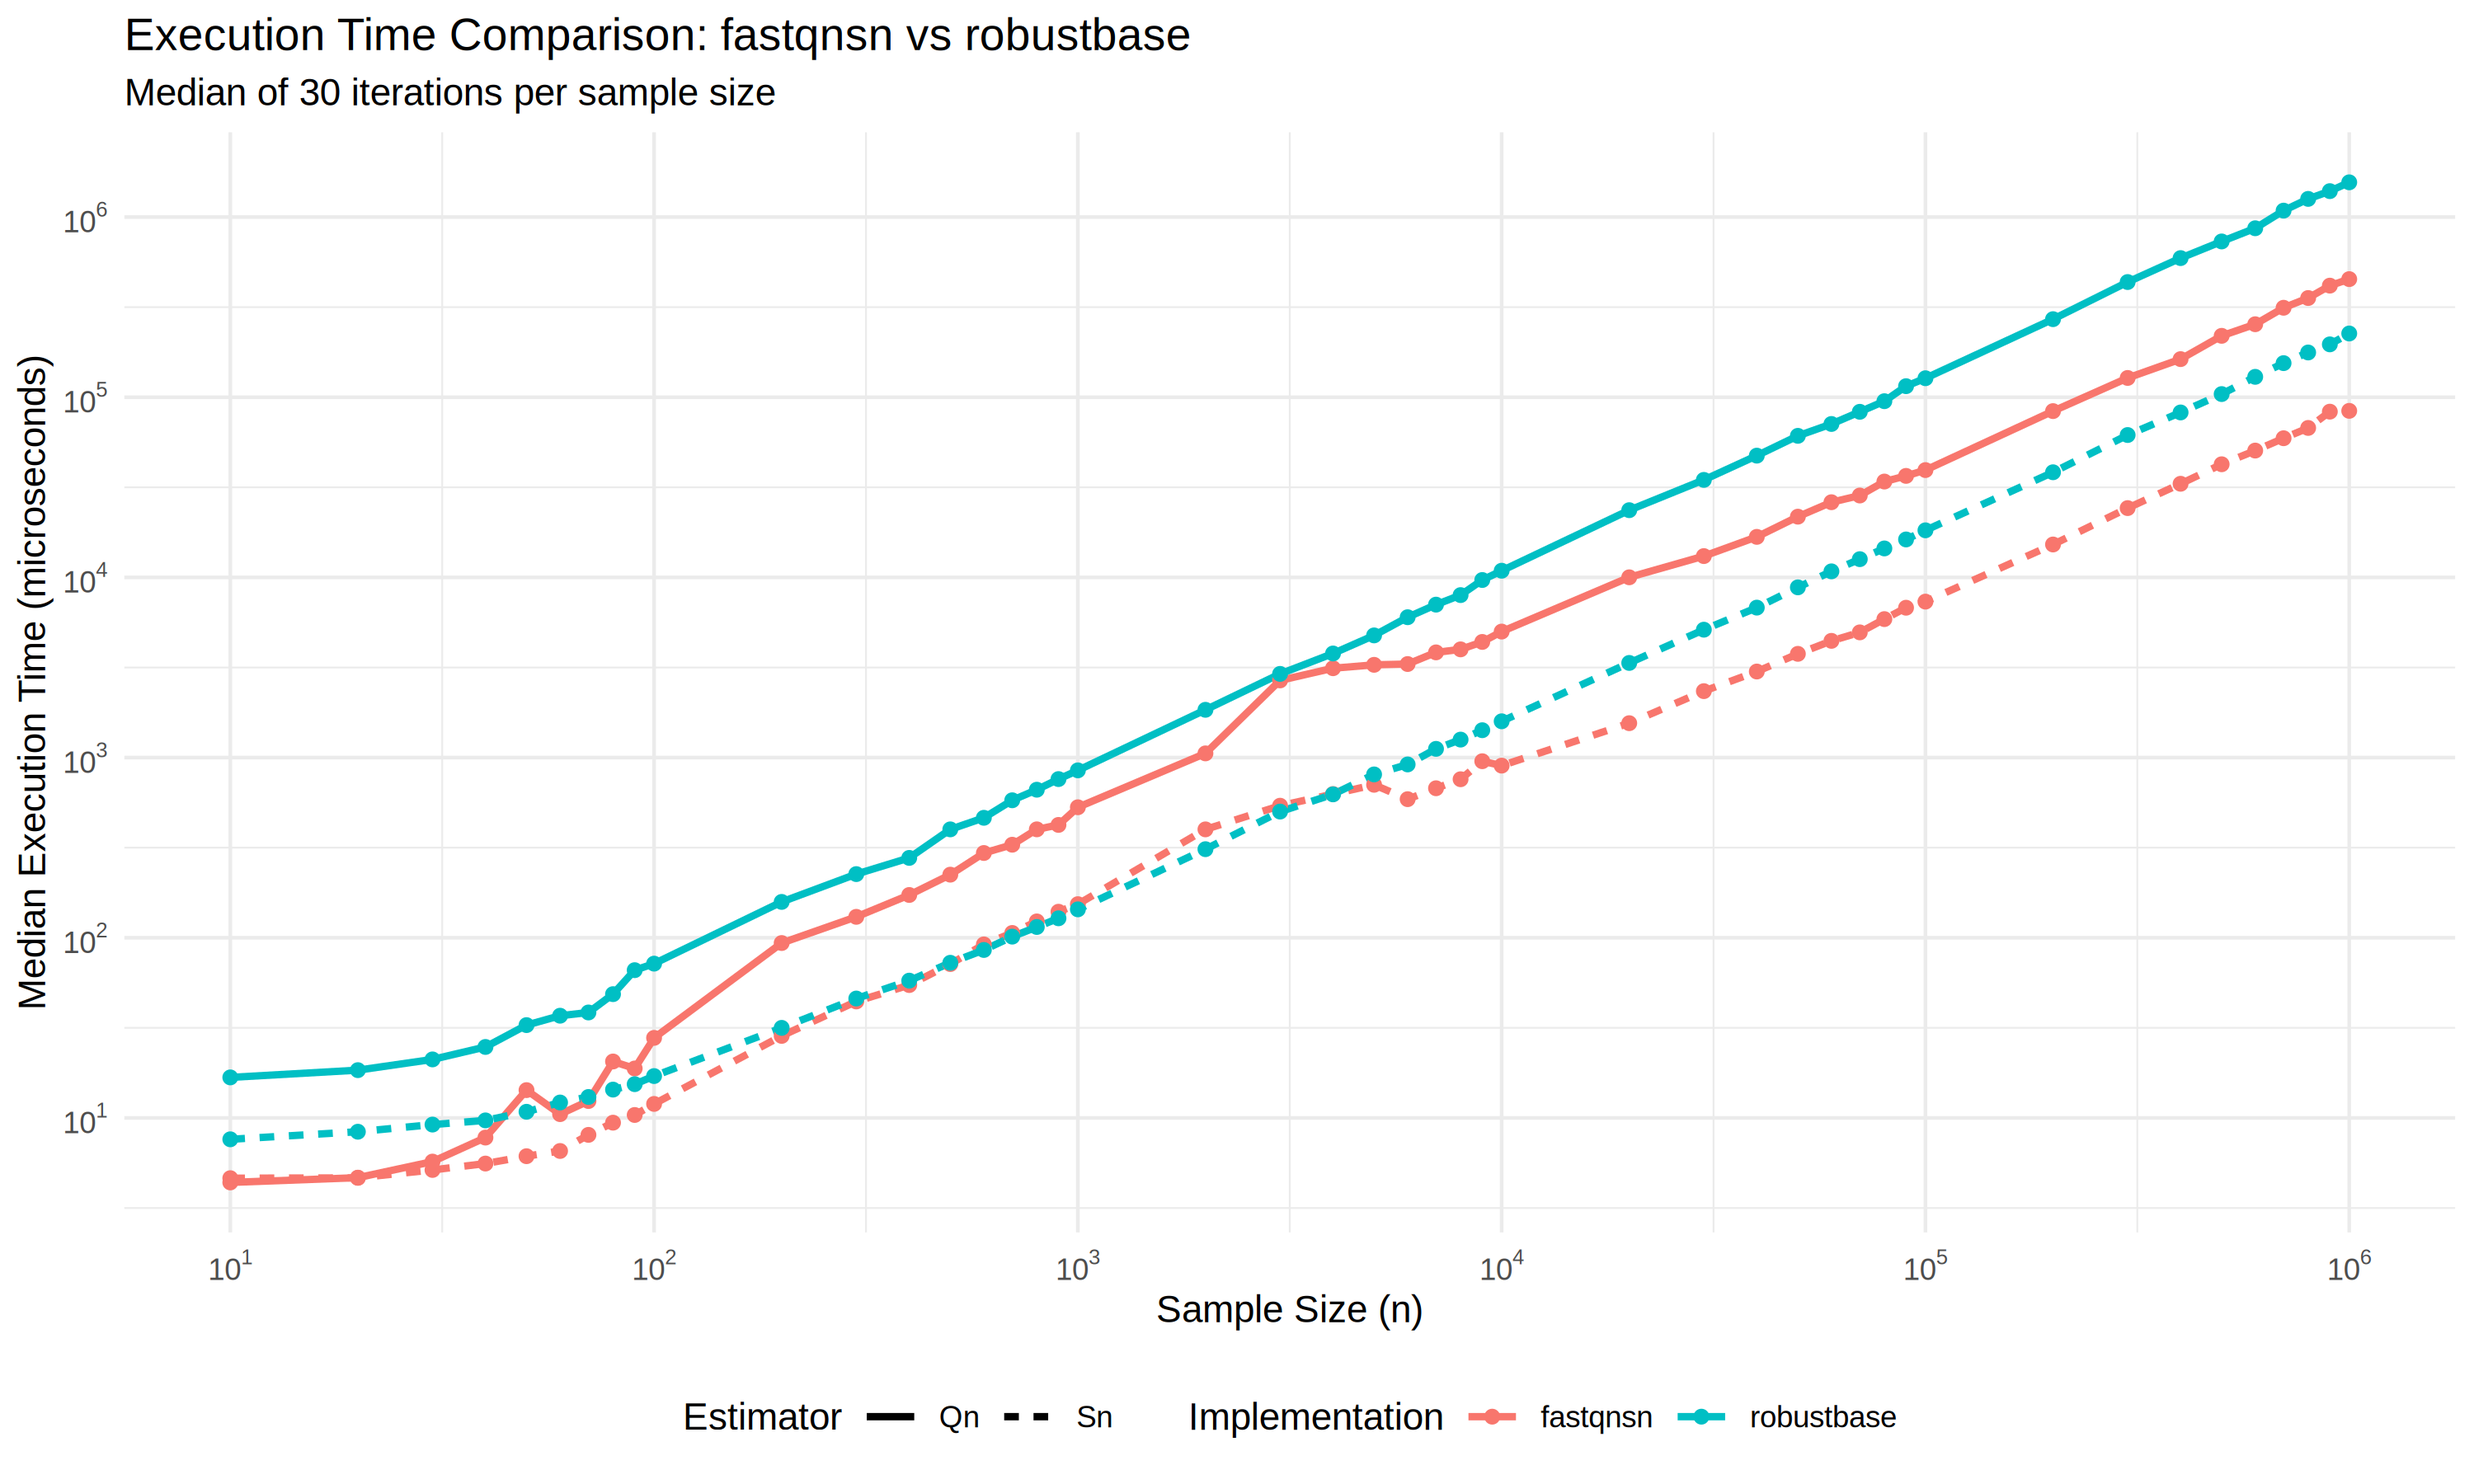
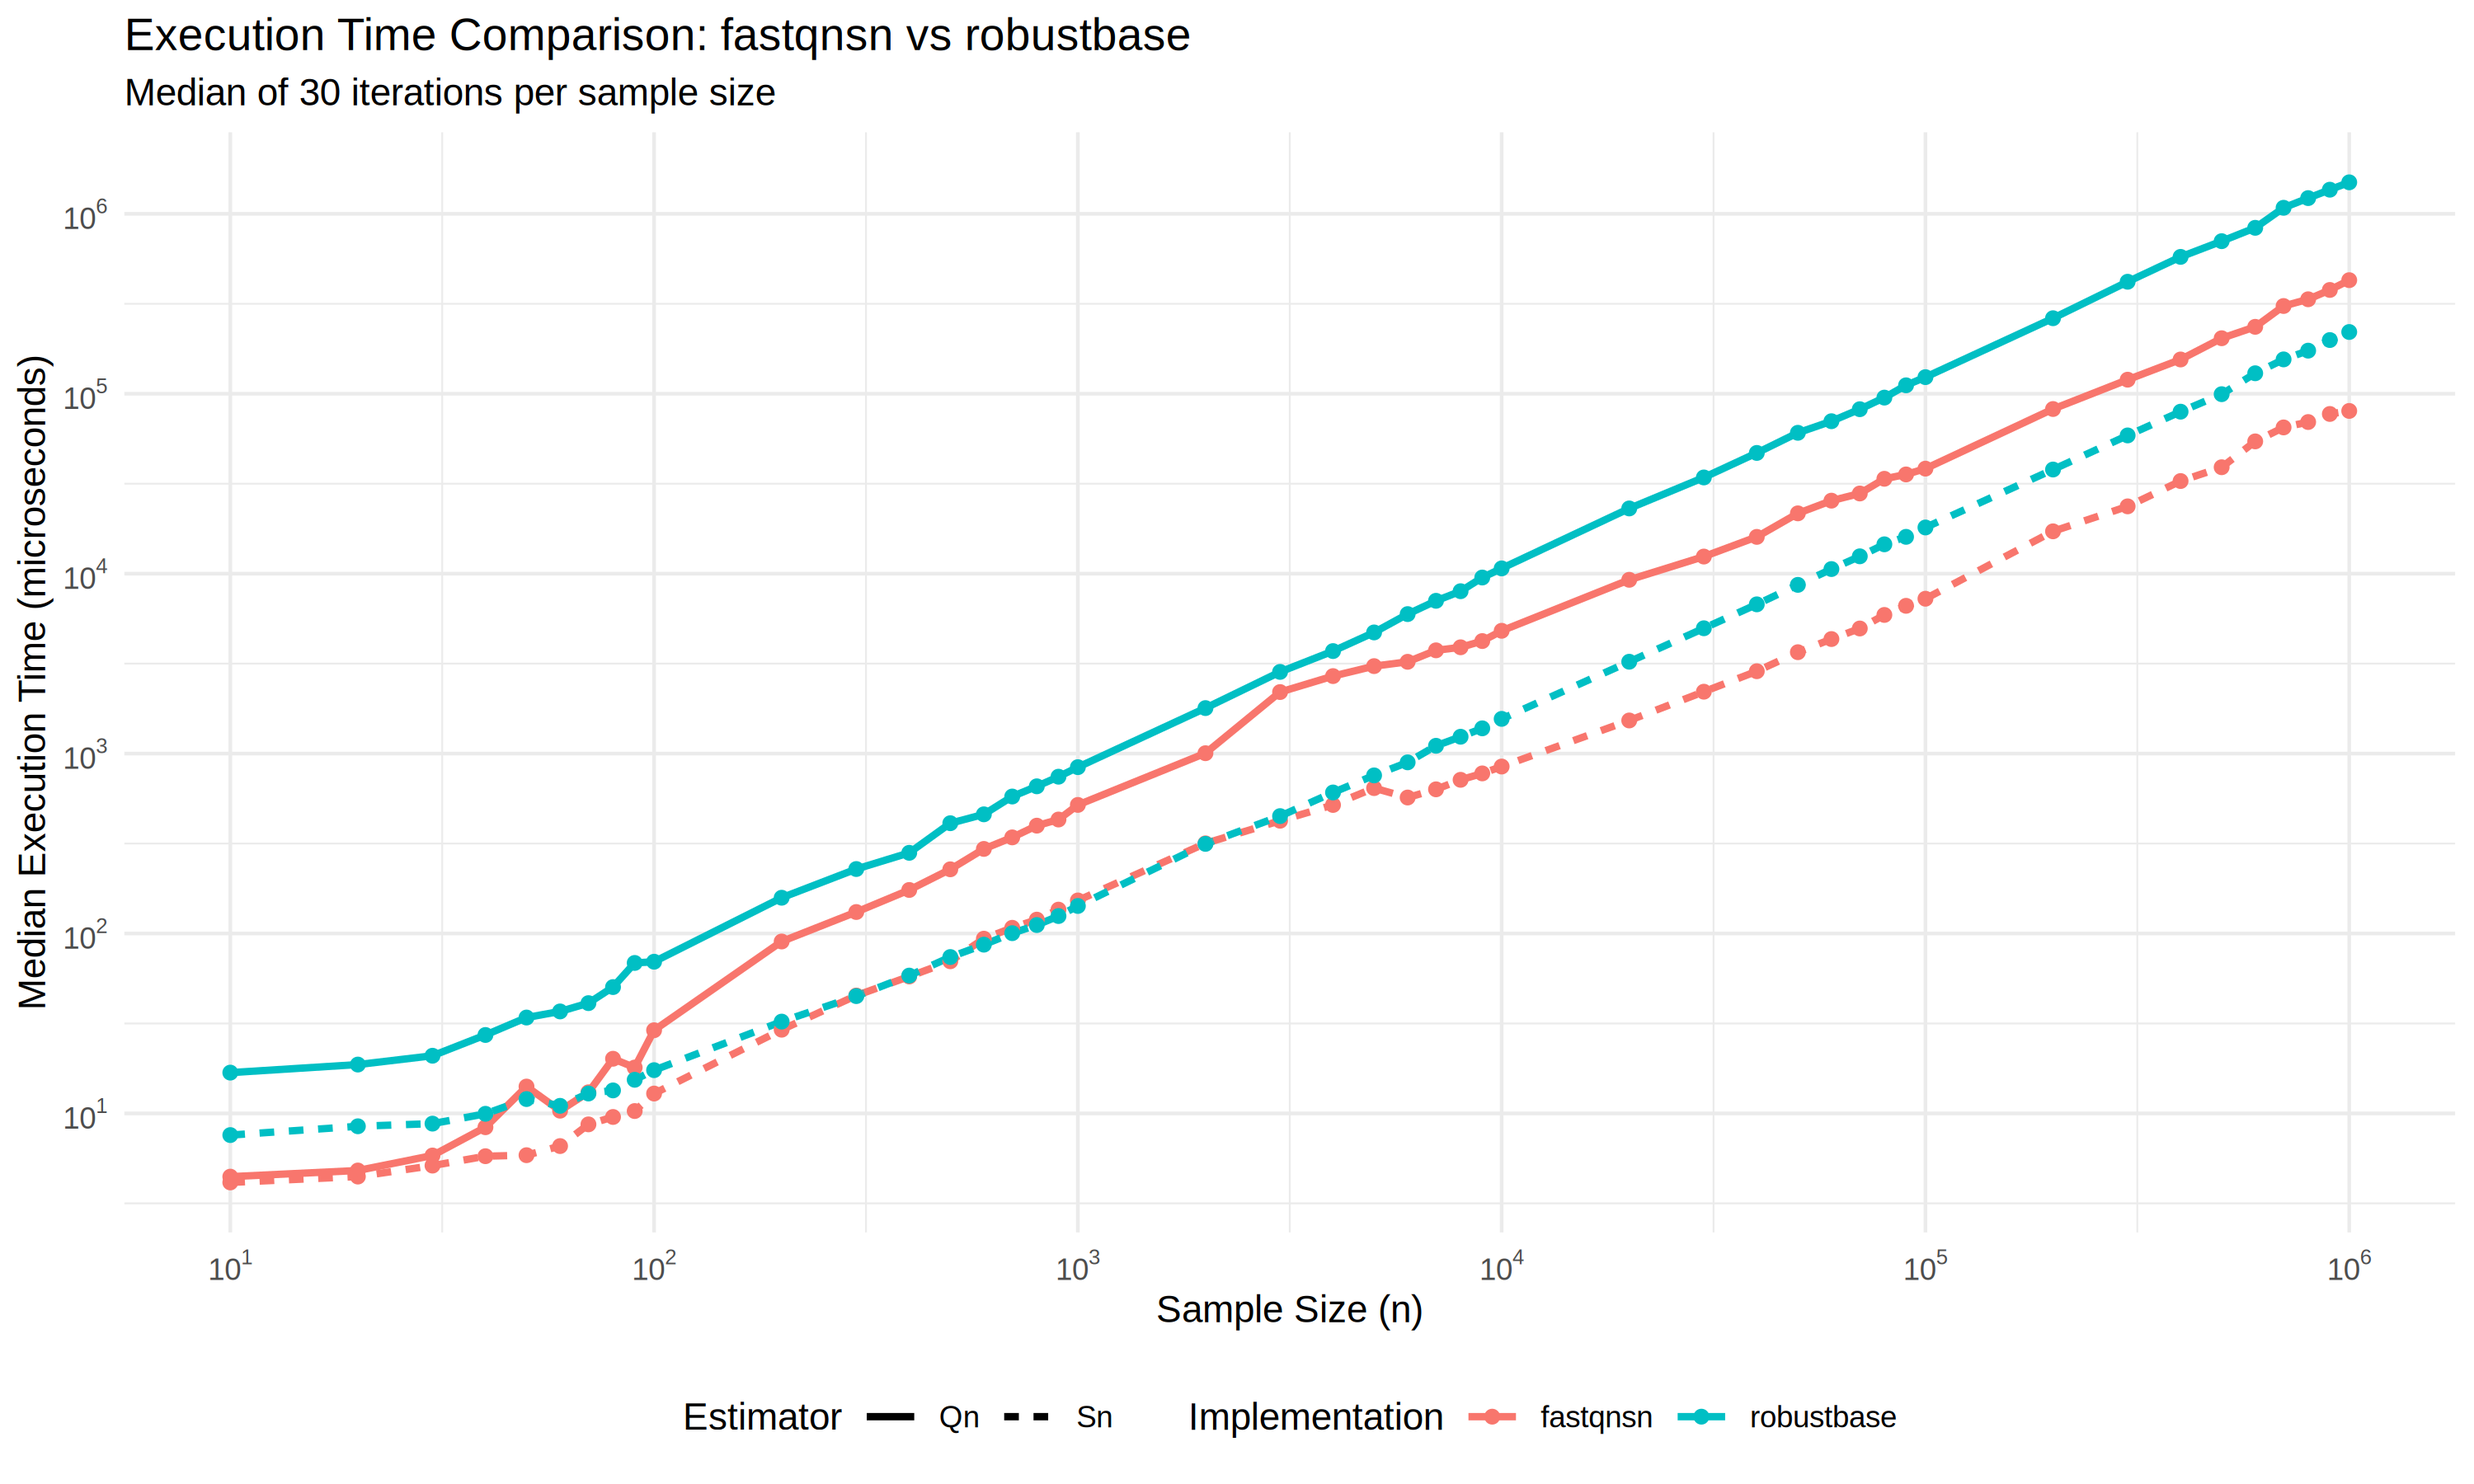
Refine thread allocation and optimize estimators performance
- Conducted a thread scaling study for Qn and Sn estimators across different dataset sizes.
- Refined serial/parallel thresholds (Sn: n > 1500, Qn: n > 3000) based on scaling results to avoid threading overhead.
- Evaluated sub-function performance, including parallel sort and JM selection.
- Updated README with detailed scaling evaluation and final benchmark results.
- Verified bit-identical correctness and passed all tests.

diff --git a/src/estimators.cpp b/src/estimators.cpp
@@ -112,7 +112,8 @@ double C_sn_fast(NumericVector x) {
   std::vector<double> inner_medians(n);
   SnWorker worker(sorted_x.data(), n, inner_medians.data());
 
-  if (n > 1000)
+  // Threshold for Sn parallelization refined by scaling study
+  if (n > 1500)
     parallelFor(0, n, worker);
   else
     worker(0, n);
@@ -340,7 +341,8 @@ double C_qn_fast(NumericVector x) {
   size_t h = n / 2 + 1;
   uint64_t k_target = (uint64_t)h * (h - 1) / 2;
 
-  if (n <= 2000) {
+  // Threshold for Qn parallelization refined by scaling study
+  if (n <= 3000) {
     std::vector<double> work(n);
     std::vector<int32_t> iweight(n);
     std::vector<int32_t> left(n);

diff --git a/README.md b/README.md
@@ -40,19 +40,29 @@ scale_qn <- qn(x)
 ![Performance Comparison](man/figures/benchmark.png)
 
 ### Summary of Results ($n=1,000,000$)
-Median execution time over 30 iterations:
+Median execution time:
 
 | Estimator | `robustbase` | `fastqnsn` | Speedup |
 | :--- | :--- | :--- | :--- |
-| **$S_n$** | 225.9 ms | 84.0 ms | **2.7x** |
-| **$Q_n$** | 1559.2 ms | 452.6 ms | **3.4x** |
+| **$S_n$** | 220.4 ms | 80.3 ms | **2.7x** |
+| **$Q_n$** | 1496.7 ms | 427.9 ms | **3.5x** |
 
 ### Small Sample Performance ($n=10$)
 
 | Estimator | `robustbase` | `fastqnsn` | Speedup |
 | :--- | :--- | :--- | :--- |
-| **$S_n$** | 7.6 µs | 4.6 µs | **1.6x** |
-| **$Q_n$** | 16.8 µs | 4.4 µs | **3.8x** |
+| **$S_n$** | 7.6 µs | 4.1 µs | **1.8x** |
+| **$Q_n$** | 16.9 µs | 4.5 µs | **3.8x** |
+
+### Thread Scaling Evaluation
+
+`fastqnsn` has been evaluated for optimal thread allocation across different sample sizes and estimators:
+
+- **$Q_n$ Estimator:**
+  - **Sorting:** Benefits significantly from `tbb::parallel_sort` for $n > 5000$.
+  - **JM Selection:** The Johnson-Mizoguchi counting and refinement steps are memory-bandwidth efficient and scale well for large datasets ($n > 3000$). For smaller datasets, the overhead of thread management exceeds the benefits, so a serial path is used.
+- **$S_n$ Estimator:**
+  - **Row Medians:** While the algorithm is $O(n \log n)$, the access pattern is less cache-friendly than $Q_n$. Scaling is beneficial for $n > 1500$, but levels off for very large datasets as it becomes memory-latency bound.
 
 *Note: `fastqnsn` uses updated consistency constants and finite-sample bias corrections from Akinshin (2022) by default.*
 
